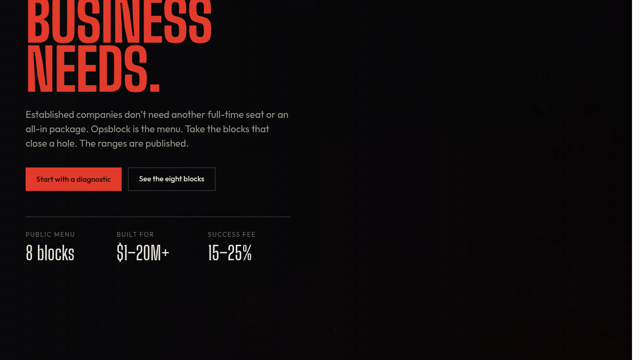
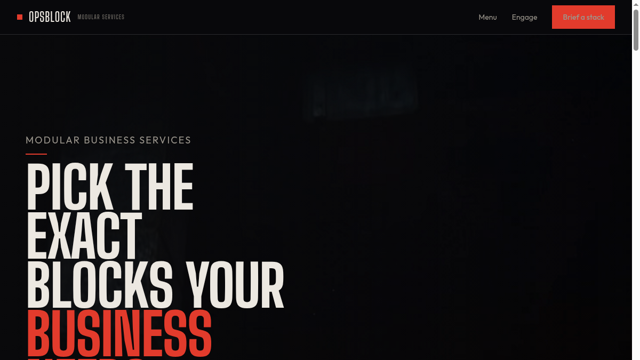
Add faint gallery line, fix OpsBlock crop, dial back pills

Changed region(s): [[0.0312, 0.3056, 0.4688, 1.0], [0.0312, 0.0, 0.3438, 0.275], [0.75, 0.0, 1.0, 0.1528]]

diff --git a/index.html b/index.html
@@ -14,6 +14,7 @@
 <div id="gallery">
   <video id="open-vid" autoplay muted playsinline><source src="door-open.mp4" type="video/mp4"></video>
   <button id="corner-door" type="button" aria-label="Key"><svg viewBox="0 0 24 24" width="18" height="18" style="display:block;transform:translateY(-3px)" fill="none" stroke="currentColor" stroke-width="1.6" stroke-linecap="round" stroke-linejoin="round"><circle cx="8" cy="15" r="4"/><path d="M12 15h9"/><path d="M18 15v3"/><path d="M21 15v2"/></svg></button>
+  <div id="gallery-line">The work</div>
   <div id="wall">
     <a class="frame" href="https://meetavi.world/" style="background-image:url(avi-thumb.png)" target="_blank" rel="noopener">
       <span class="pill">Avi · The hang</span>
@@ -62,10 +63,11 @@
 #bolt:before{content:"";position:absolute;left:-10px;top:-4px;width:16px;height:26px;background:linear-gradient(180deg,#f0ece4,#7a7670);border-radius:3px;box-shadow:inset 0 1px 0 rgba(255,255,255,.4)}
 #bolt:after{content:"";position:absolute;right:8px;top:4px;width:6px;height:6px;border-radius:50%;background:#3a3834;box-shadow:0 0 0 1px #9a9690}
 #gallery.open #bolt{display:none;transform:translateX(-220px)}
+#gallery-line{text-align:center;color:rgba(244,241,234,.55);font-size:.85rem;letter-spacing:.12em;text-transform:uppercase;font-weight:400;margin:0 0 14px;position:relative;z-index:3}
 #wall{position:absolute;inset:0;z-index:2;display:flex;flex-direction:column;gap:12px;align-items:center;padding:120px 20px 40px;opacity:0;transition:opacity .6s ease .4s;overflow:auto}
 #gallery.open #wall{opacity:1}
 .frame{display:flex;flex-direction:column;justify-content:flex-end;width:min(380px,88vw);min-height:160px;padding:14px 16px;border:6px solid #1a1814;border-radius:6px;background:rgba(12,10,8,.6) center/cover no-repeat;color:#f4f1ea;text-decoration:none;box-shadow:0 10px 24px rgba(0,0,0,.45);position:relative}
-.frame:before{content:"";position:absolute;inset:0;background:linear-gradient(transparent 40%,rgba(0,0,0,.7));border-radius:2px}.pill{display:inline-flex;align-self:flex-start;background:rgba(12,10,8,.85);color:#f4f1ea;border:1px solid #d2d2d2;border-radius:999px;padding:5px 12px;font-size:.78rem;font-weight:450;letter-spacing:.02em;position:relative;z-index:2}.frame .cap{font-weight:650;font-size:1rem}
+.frame:before{content:"";position:absolute;inset:0;background:linear-gradient(transparent 40%,rgba(0,0,0,.7));border-radius:2px}.pill{display:inline-flex;align-self:flex-start;background:rgba(12,10,8,.7);color:rgba(244,241,234,.85);border:1px solid rgba(210,210,210,.6);border-radius:999px;padding:4px 10px;font-size:.7rem;font-weight:400;letter-spacing:.04em;position:relative;z-index:2}.frame .cap{font-weight:650;font-size:1rem}
 .frame .sub{font-size:.75rem;color:#c8c0b4;margin-top:2px}
 .frame:hover{border-color:#d2d2d2}
 #corner-door{position:fixed;top:16px;right:16px;z-index:50;width:40px;height:40px;display:flex;align-items:center;justify-content:center;background:rgba(12,10,8,.55);color:#f4f1ea;border:1px solid rgba(255,255,255,.22);border-radius:50%;padding:0;cursor:pointer;line-height:0;transition:transform .2s ease,border-color .2s ease}#corner-door:hover,#corner-door:focus{transform:scale(1.12);border-color:rgba(255,255,255,.5)}
